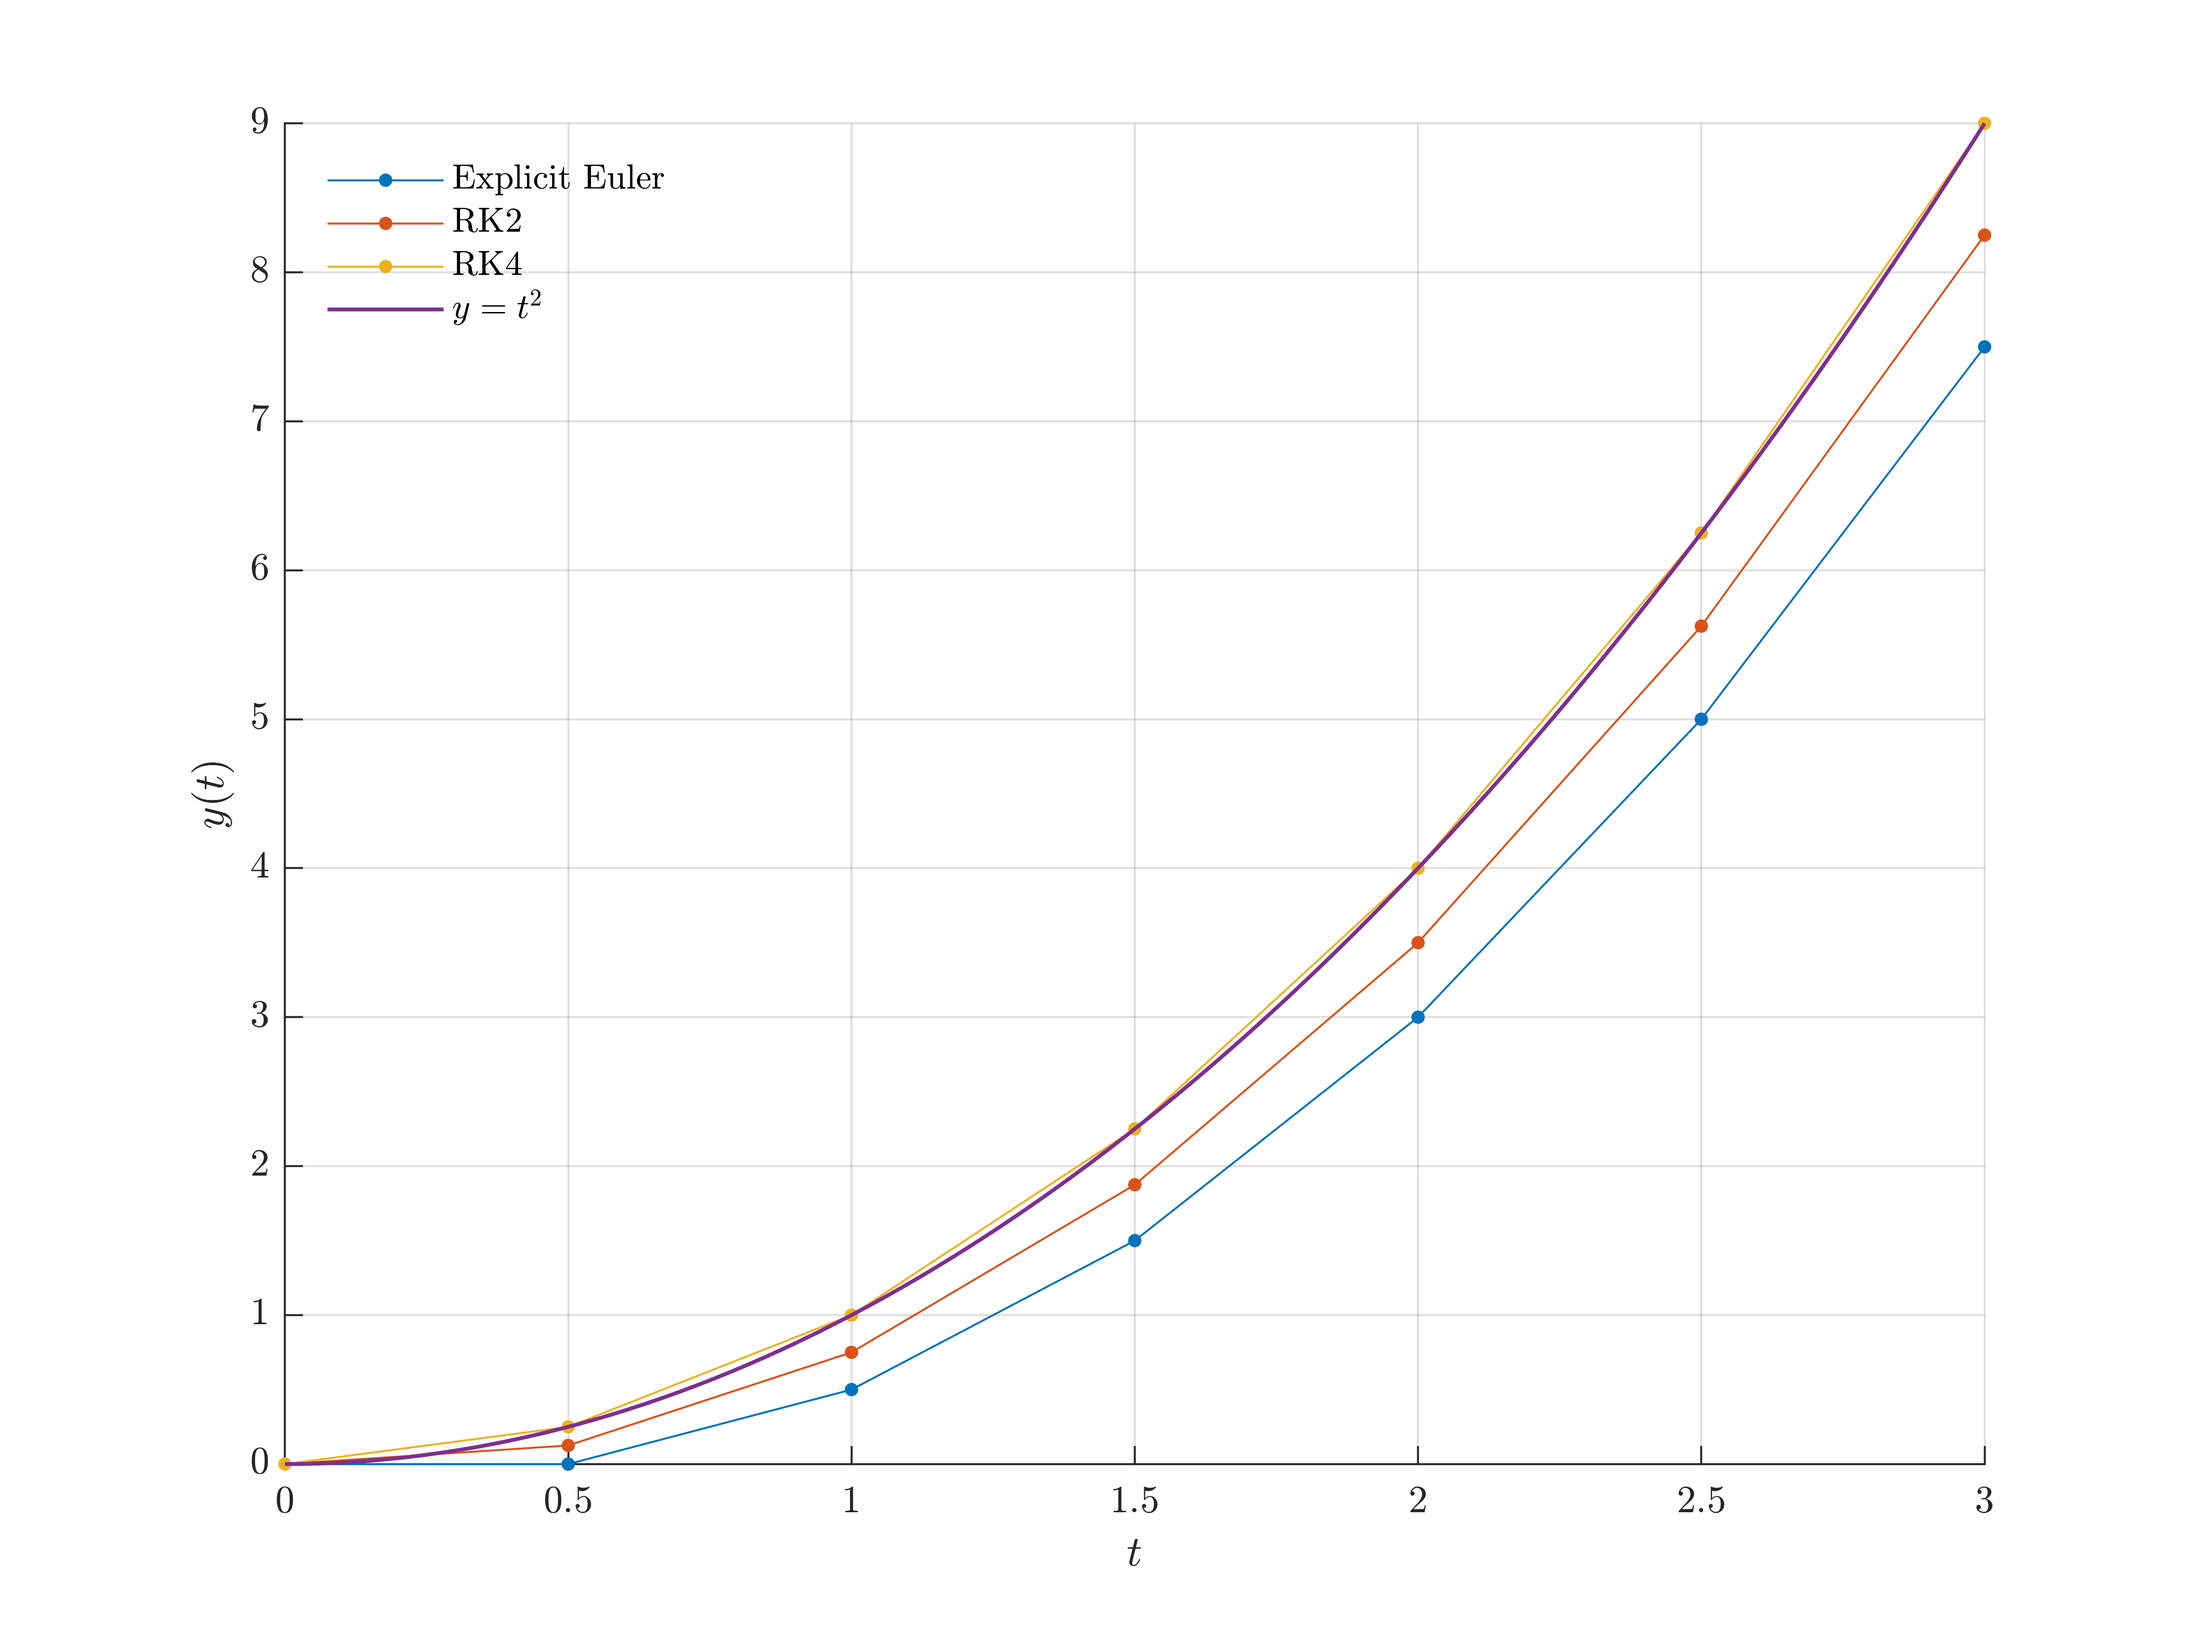
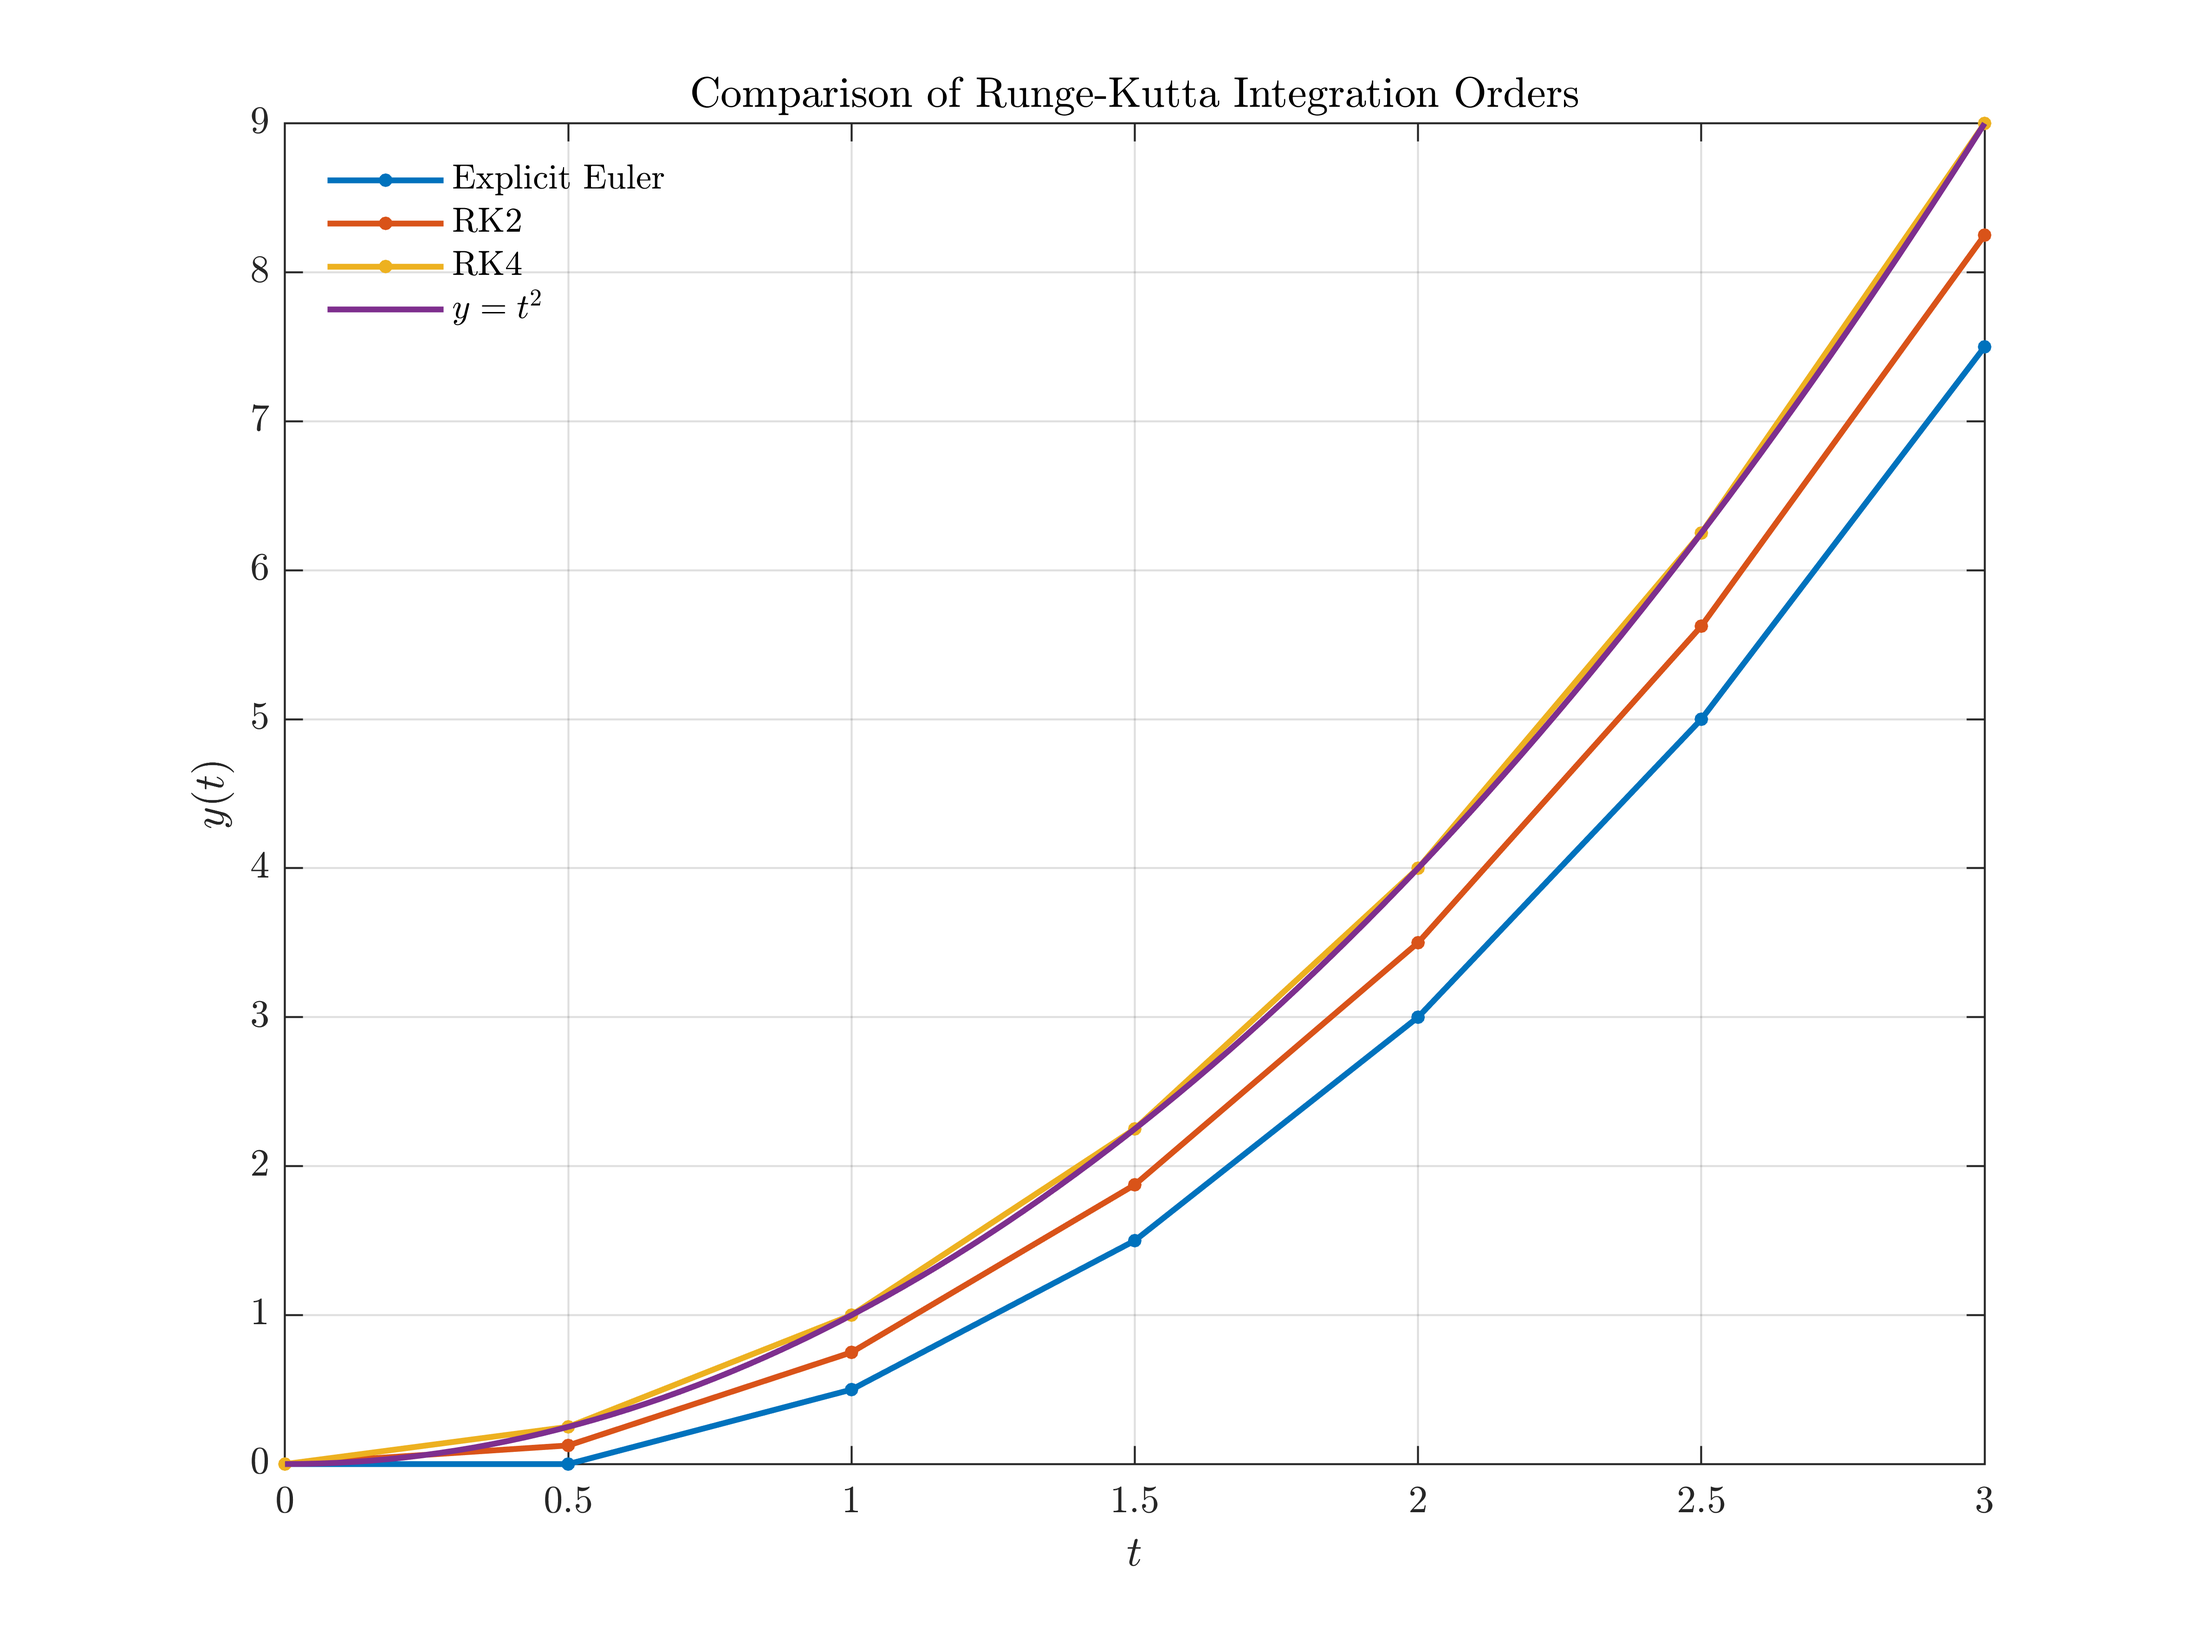
remove figure settings from script and add title

diff --git a/6DoF Explanation Scripts/NumericalIntegratorError.m b/6DoF Explanation Scripts/NumericalIntegratorError.m
@@ -27,34 +27,30 @@ tspanCurve = linspace(0,tEnd, 100);
 %figure plotting:
 hfig = figure;  % save the figure handle in a variable
 fname = 'Numerical Integrator Comparison Figure';
+picturewidth = 20;
+hw_ratio = 0.75;
 
-picturewidth = 20; % set this parameter and keep it forever
-hw_ratio = 0.75; % feel free to play with this ratio
-set(findall(hfig,'-property','FontSize'),'FontSize',18) % adjust fontsize to your document
 
 plot(t, y, '.', LineStyle='-', MarkerSize= 12)
 hold on
 plot(t, yRK2, '.', LineStyle='-', MarkerSize= 12)
 plot(t, yRK4, '.', LineStyle='-', MarkerSize= 12)
-plot(tspanCurve, tspanCurve.^2, LineWidth=1)
+plot(tspanCurve, tspanCurve.^2, LineWidth=1.5)
 
 legend('Explicit Euler', 'RK2', 'RK4', '$y=t^2$', 'Location', 'northwest')
 
 %title('Explicit Euler Numerical Approximation')
 xlabel('$t$')
 ylabel('$y(t)$')
+title('Comparison of Runge-Kutta Integration Orders')
 
 grid on
 axis tight
 
-set(findall(hfig,'-property','Box'),'Box','off') % optional
-set(findall(hfig,'-property','Interpreter'),'Interpreter','latex') 
-set(findall(hfig,'-property','TickLabelInterpreter'),'TickLabelInterpreter','latex')
 set(hfig,'Units','centimeters','Position',[3 3 picturewidth hw_ratio*picturewidth])
 pos = get(hfig,'Position');
 set(hfig,'PaperPositionMode','Auto','PaperUnits','centimeters','PaperSize',[pos(3), pos(4)])
 print(hfig,fname,'-dpng','-r600')
-
 
 % functions
 
